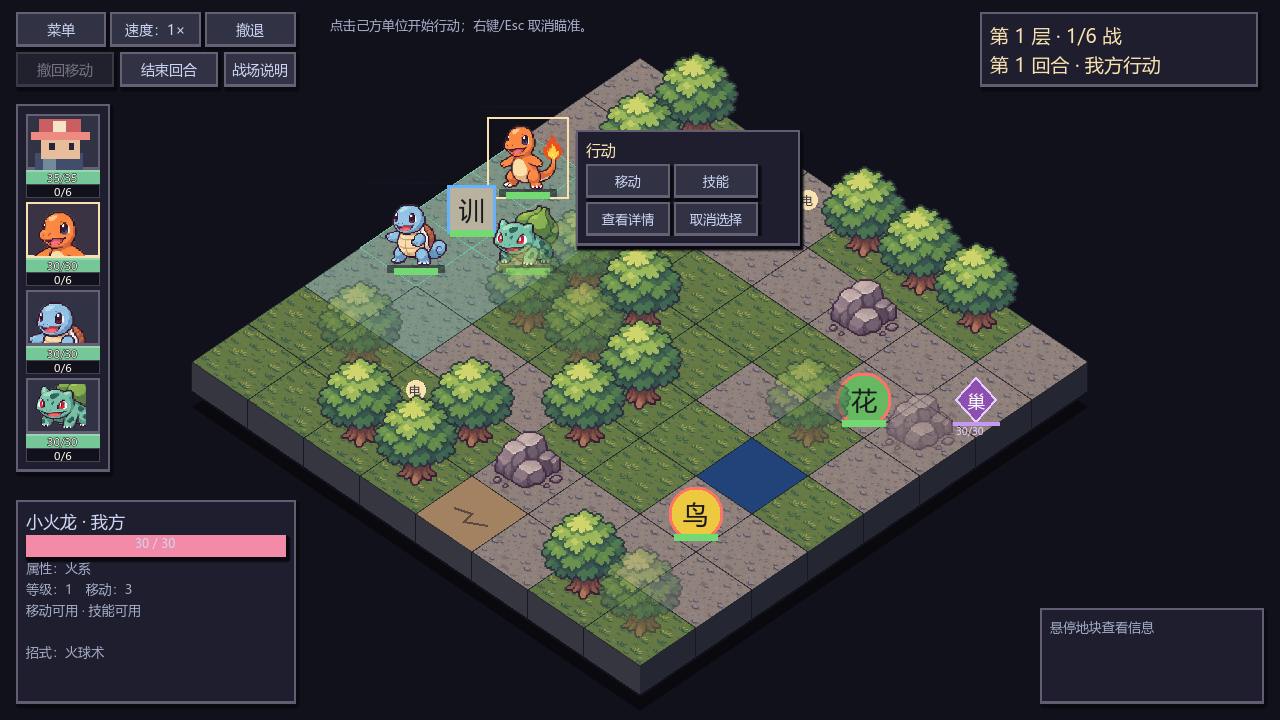
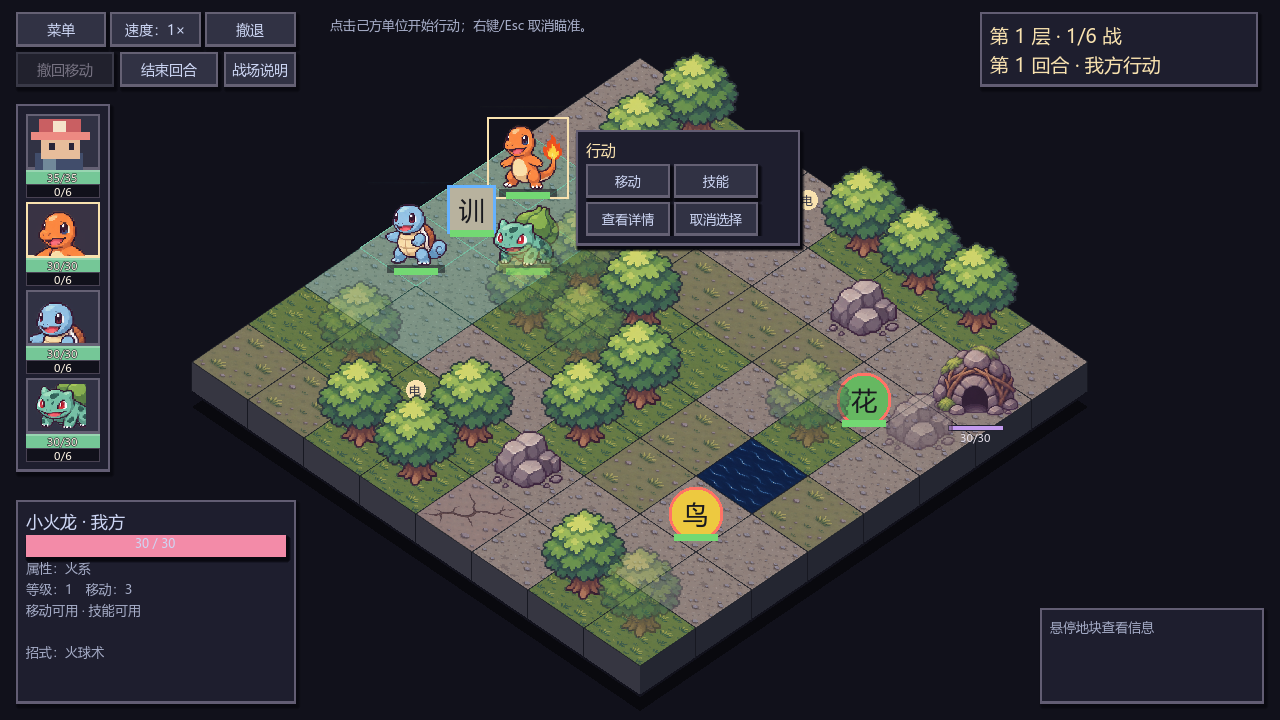
art: unify all terrain materials and three-state nest sprites

diff --git a/sample/ISOMETRIC.md b/sample/ISOMETRIC.md
@@ -84,3 +84,14 @@
 - 更新前景遮挡检测尺寸，与放大角色匹配。
 - simple_terrain.gd与terrain-catalogue.png留作上一设计备份；该对照图不代表当前地面。
 - 本轮验证：专项391项、界面流程150项通过；实机渲染无脚本错误。
+
+## 第一版风格的全地形与巢穴统一（2026-11-11）
+
+- 保留原atlas-v1中的平地、水面、草丛、树木和岩石，用同风格补充图集terrain-nest-v1.png覆盖其他九种地形。
+- 所有TerrainDB.ALL地形均返回真实AtlasTexture，不再使用纯色临时格；材质和地面接缝由unified_materials.gd集中绘制。
+- 岩山换为同质感的高岩峰；蓝火使用独立青蓝火焰，不再对橙火简单调色。
+- 巢穴以石块和枝条组成的洞穴取代紫色菱形，HP大于一半显示完好，降至一半及以下显示受损，摧毁显示低矮废墟并隐藏血条。生命、守卫分伤与寻路规则不变。
+- 巢穴HP条与生命数字保留；守卫状态通过血条配色和原有悬浮信息表现。
+- terrain-catalogue.png现为14种实际地形与3种巢穴状态，调用与实机相同的资源与绘制函数。旧simple_terrain.gd/terrain_catalogue.gd仅保留为历史方案，不在战斗或新对照图使用。
+- 本轮验证：专项408检查点、巢穴分层生命与分伤68检查点通过；完整回归101用例、13268检查点通过。对照图与战斗图无脚本错误。
+- 补充图集使用内置image_gen、参考原图集生成；规格与资源说明在assets/pixel_sample/terrain-nest-prompt.md。素材未经人工逐像素精修，不声称已经完成动画与多方向角色资源。

diff --git a/assets/pixel_sample/terrain-nest-prompt.md b/assets/pixel_sample/terrain-nest-prompt.md
@@ -1,0 +1,15 @@
+# 补充材质与巢穴素材
+
+生成方式：内置 image_gen；参考 atlas-v1.png 的风格生成新图集，不覆盖原图。
+文件：terrain-nest-v1.png。以4×4等分AtlasTexture使用，地面投影为菱形，立体物件保持直立。
+
+提示词规格：匹配参考图首行地面与末行岩石/树木的像素密度、冷灰紫描边、低饱和度配色、左上光源；1024方图，4行4列，每格256，禁止文字、编号、网格线、角色及UI；地面格完全不透明、顶视正方形，立体物件格背景透明、位于中央且不跨格；适量分组纹理，不使用繁复装饰或巨幅特写。
+
+第一行：深蓝水面、冷却玄武岩与少量橙红熔流、参考土壤加主裂缝、岩缘内凹深坑。
+第二行：冷蓝冰面与稀疏切线、参考土壤加绿色藤蔓、露土稀疏浅草、炭蓝地面与少量青色余烬。
+第三行：冷灰岩山基底、透明高耸岩山、透明青蓝火焰、透明完好巢穴。巢穴由灰褐石块与枝条组成，有面向观察者的暗色洞口，少量苔藓；不使用紫色菱形或字母。
+第四行：透明受损巢穴、透明摧毁巢穴、露土苔藓巢穴地面、暗色林地根系。
+
+巢穴三态使用相同尺寸、角度与落脚点：完好是完整石拱门；受损有缺口和裂石，但洞口仍可认；摧毁只留低矮碎石和断枝。
+
+生成图保留原始文件，不声称已经过逐像素手工修整。当前以邻近过滤和实机缩小图检查；所有地形与巢穴对照图位于sample/terrain-catalogue.png。
